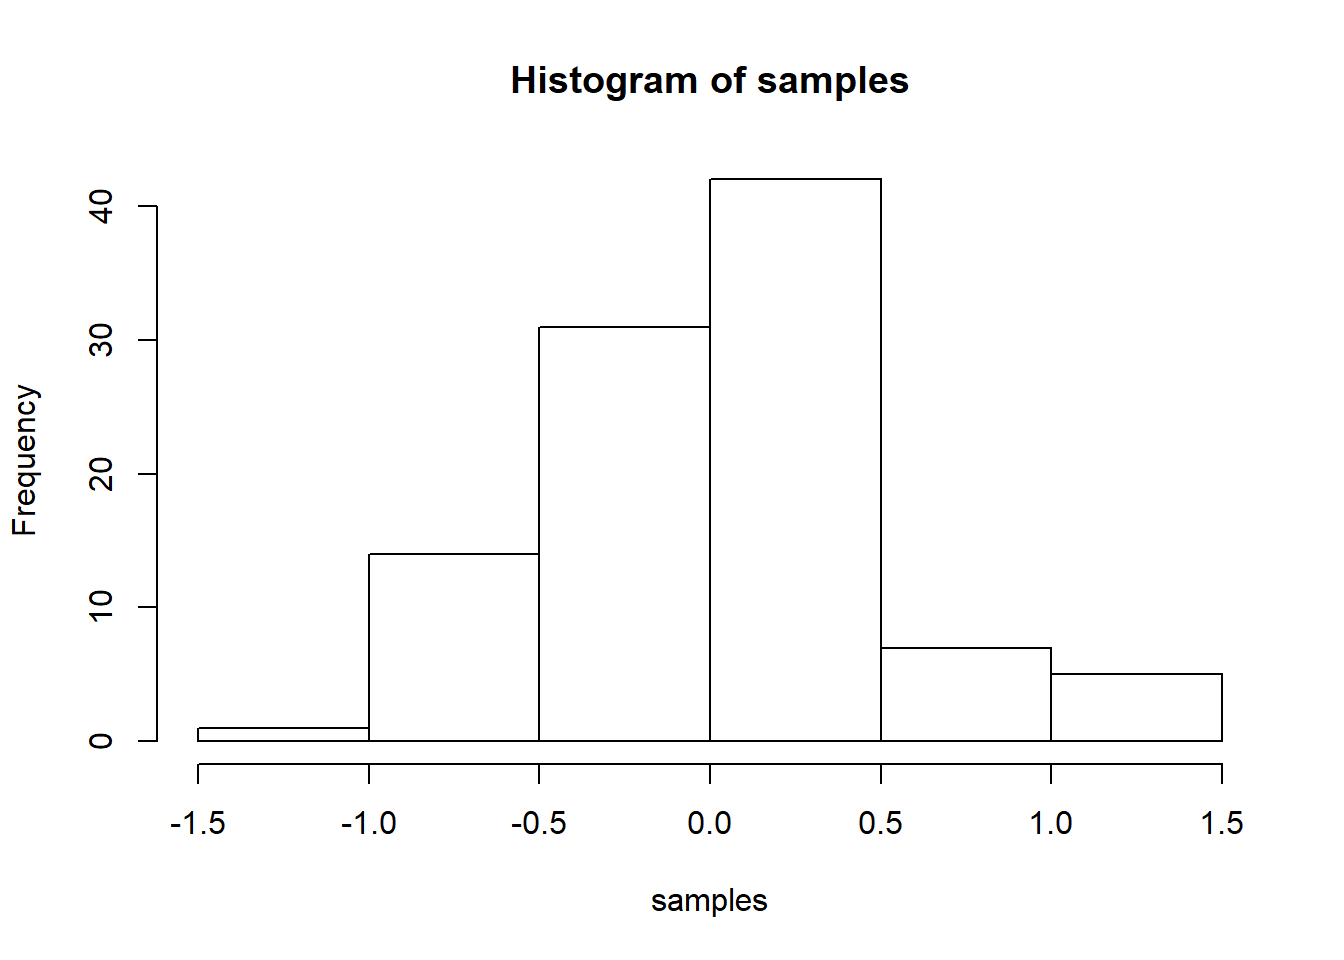
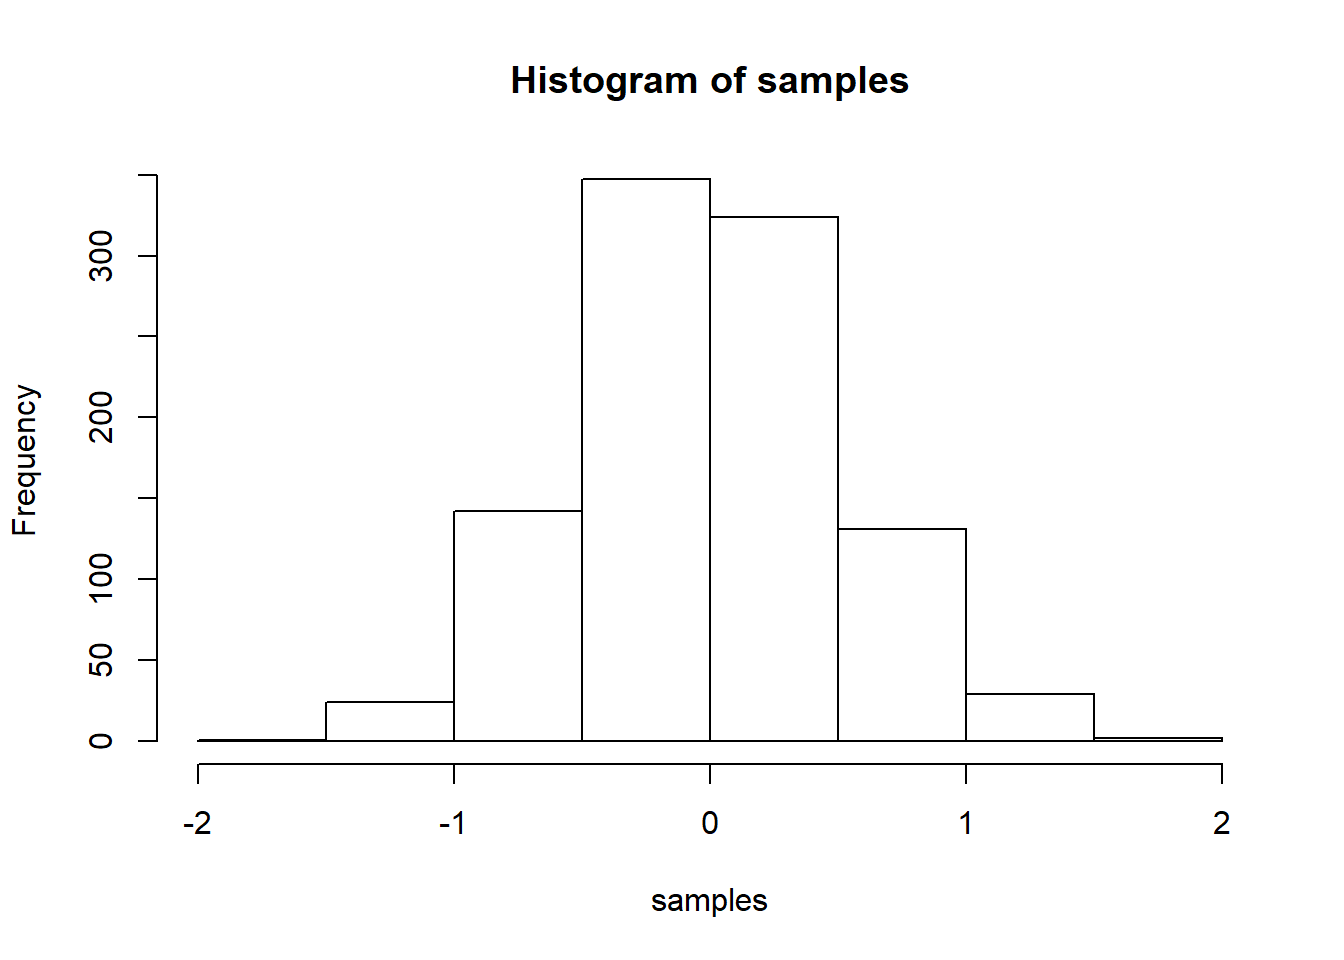
bag

diff --git a/docs/Software.html b/docs/Software.html
@@ -563,7 +563,7 @@ d</code></pre>
 <div id="simple-stuff-to-do-with-r" class="section level1">
 <h1>Simple stuff to do with <tt><code>R</code></tt></h1>
 <p>If you would like to make a histogram in R. For instance, we want to generate a sample with 100 numbers from a normal distribution with mean = 0, and standard deviation = 0.5, and then we want to plot a histogram. We can do this here by using the folowing R code:</p>
-<pre class="r"><code>samples &lt;- rnorm(100, mean=0, sd=0.5)
+<pre class="r"><code>samples &lt;- rnorm(1000, mean=0, sd=0.5)
 hist(samples)</code></pre>
 <p><img src="Software_files/figure-html/unnamed-chunk-23-1.png" width="672" /></p>
 <p>and simple R function to find the mean and the variance for set of data.</p>
